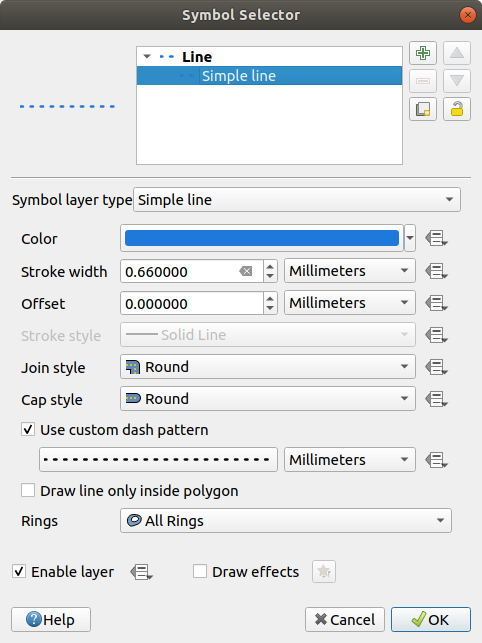
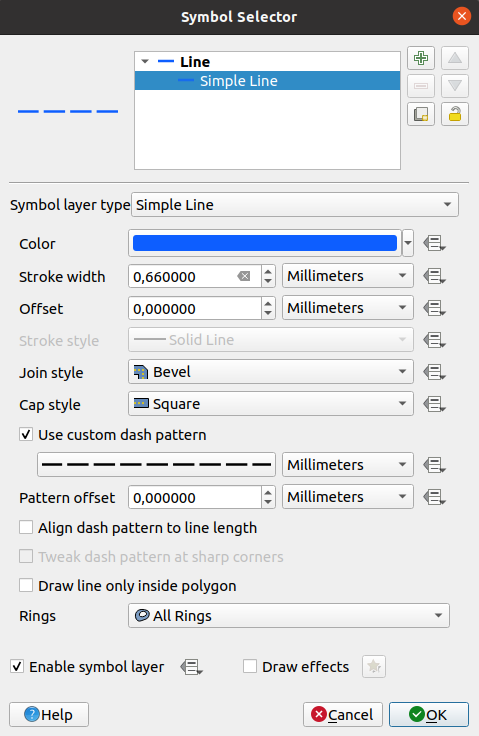
Feature #5900 documentation and screenshots
- added the new features too the documentation
- updated screenshots

diff --git a/docs/user_manual/style_library/symbol_selector.rst b/docs/user_manual/style_library/symbol_selector.rst
@@ -276,6 +276,13 @@ layer types:
   * :guilabel:`Cap style`
   * |checkbox| :guilabel:`Use custom dash pattern`: overrides the
     :guilabel:`Stroke style` setting with a custom dash.
+  * |checkbox| :guilabel:`Align dash pattern to line length`: the dash pattern
+    length will be adjusted so that the line will end with a complete dash 
+    element, instead of a gap.
+  * |checkbox| :guilabel:`Tweak dash pattern at sharp corners`: dynamically 
+    adjusts the dash pattern placement so that sharp corners are represented
+    by a full dash element coming into and out of the sharp corner.
+    Dependend on :guilabel:`Align dash pattern to line length`.
 
 .. _arrow_symbol:
 
